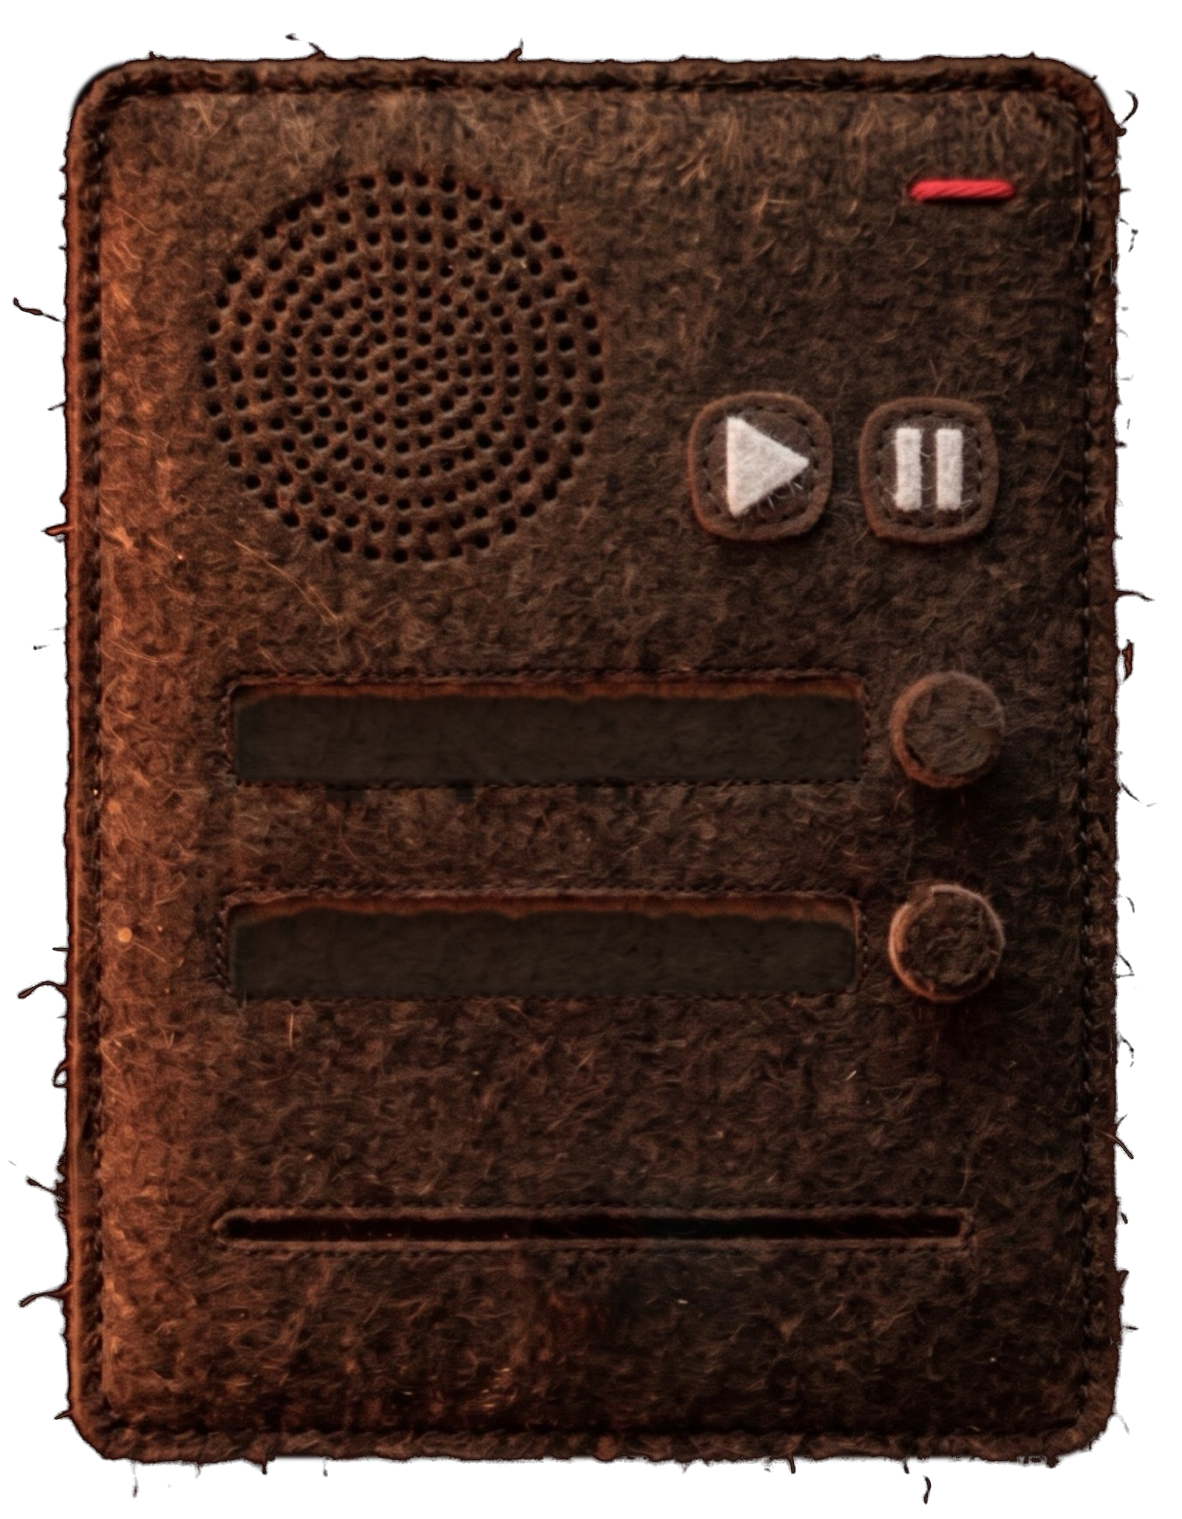
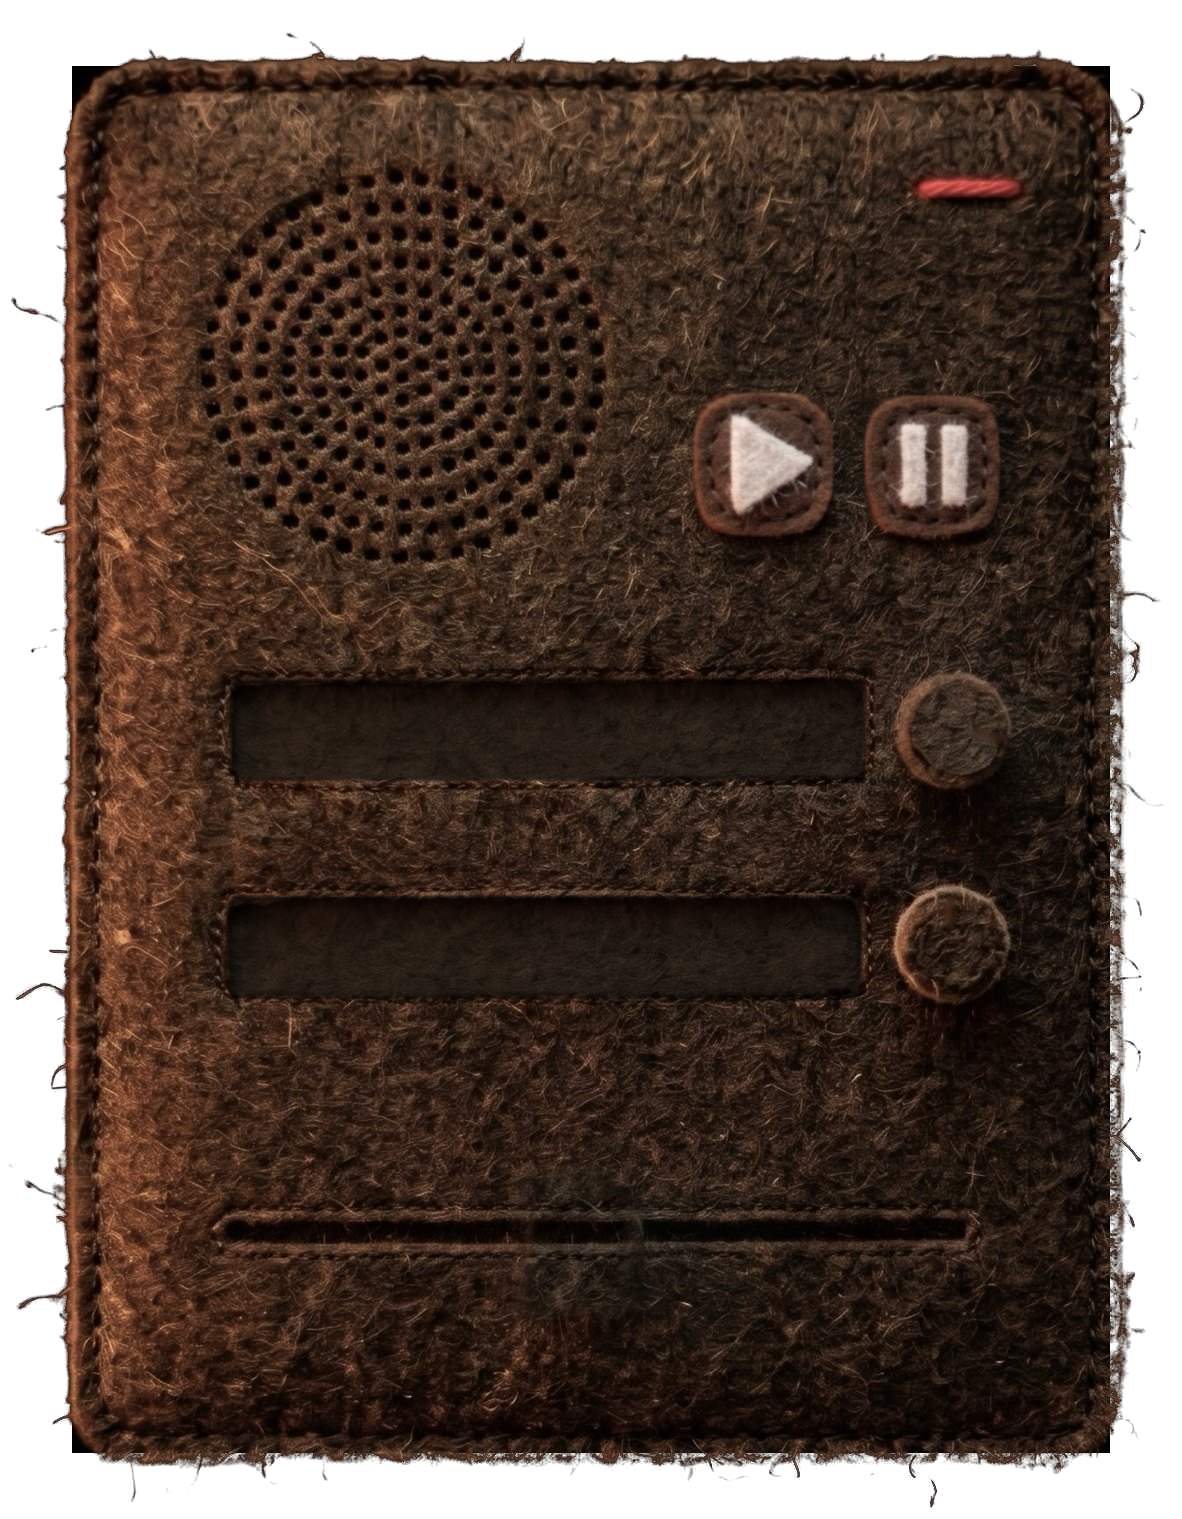
Night audio player: back to the original night felt, with the new brown buttons and green Play cut in
Claude-Session: https://claude.ai/code/session_01NDsvQ4w6b4M39K7iEhCswz

Changed region(s): [[0.0305, 0.0309, 0.9746, 0.9901], [0.3959, 0.7117, 0.4264, 0.7426], [0.2132, 0.526, 0.2437, 0.5569]]

diff --git a/src/components/TapePlayer.js b/src/components/TapePlayer.js
@@ -19,7 +19,7 @@ const BODY = require('../../assets/audio-player2.jpg'); // the whole player, in 
 const PLAY_ON = require('../../assets/audio-play-on.png'); // the green Play button, laid over while playing
 const PLAY_ON_NIGHT = require('../../assets/audio-play-on-night.png'); // the green button from Jörg's night photo, cut out
 const THUMB = require('../../assets/audio-thumb2.png'); // the slider's felt knob (with its shadow drawn in)
-// at night (the nightlight is on): Jörg's dark brown felt version, with its loose threads around the edges (the black around them see-through),
+// at night (the nightlight is on): Jörg's dark brown felt version (with the brown felt Play and Pause cut from his newer night photo), with its loose threads around the edges (the black around them see-through),
 // and its own slider knob. The day player stays as it is.
 const BODY_NIGHT = require('../../assets/audio-player-night.png');
 const THUMB_NIGHT = require('../../assets/audio-thumb-night.png');
@@ -27,7 +27,7 @@ const NIGHT_MX = 0.063, NIGHT_MY = 0.0428; // how far the night picture reaches 
 const IW = 1792, IH = 2400; // the picture's own units (Jörg's photo, in pixels)
 const R = 112; // its corners: the felt's own rounded corners (the photo's background there is filled with felt, then clipped)
 const PLAY = { x: 1052, y: 552, w: 260, h: 270 };
-const PLAY_NIGHT = { x: 1044, y: 544, w: 290, h: 302 }; // where the green button cut from Jörg's night photo sits on the brown felt
+const PLAY_NIGHT = { x: 1051, y: 540, w: 290, h: 302 }; // where the green button cut from Jörg's night photo sits on the brown felt
 // the size: about as wide as a phone allows, and never taller than the screen has room for
 const sizeFor = (winW, winH) => {
   const PW = Math.round(Math.min(340, winW - 48, (winH - 96) * IW / IH));
@@ -110,14 +110,14 @@ export default function TapePlayer({ onMenu }) {
         <Pressable onPress={withTap(playAmbient)} style={at(PLAY.x, PLAY.y, PLAY.w, PLAY.h)} accessibilityRole="button" accessibilityLabel={t('Play')} />
         <Pressable onPress={withTap(pauseAmbient)} style={at(1360, 562, 230, 250)} accessibilityRole="button" accessibilityLabel={t('Pause')} />
         {/* (the night felt's windows sit a little lower; its names start a little further in) */}
-        {windowText(s.night ? [297, 1096, 1056, 149] : [268, 1067, 1082, 150], name(s.sound) || t('Select sound'), !s.sound)}
-        {windowText(s.night ? [293, 1465, 1048, 142] : [268, 1437, 1076, 150], name(s.music) || t('Select music'), !s.music)}
+        {windowText(s.night ? [282, 1070, 1082, 172] : [268, 1067, 1082, 150], name(s.sound) || t('Select sound'), !s.sound)}
+        {windowText(s.night ? [276, 1441, 1082, 174] : [268, 1437, 1076, 150], name(s.music) || t('Select music'), !s.music)}
         {/* the knobs stay put; tap one to click to the next choice */}
         <Pressable onPress={withTap(() => stepAmbient('sound'), thunk)} style={at(1386, 1010, 250, 260)} accessibilityRole="button" accessibilityLabel={name(s.sound) || t('Select sound')} />
         <Pressable onPress={withTap(() => stepAmbient('music'), thunk)} style={at(1386, 1380, 250, 260)} accessibilityRole="button" accessibilityLabel={name(s.music) || t('Select music')} />
         {/* the knobs' lines turn with each click (at night: on the brown felt's knobs, in cream) */}
-        {s.night ? mark(1500, 1151, k1) : mark(1506, 1127, k1)}
-        {s.night ? mark(1500, 1510, k2) : mark(1506, 1500, k2)}
+        {s.night ? mark(1512, 1145, k1) : mark(1506, 1127, k1)}
+        {s.night ? mark(1512, 1507, k2) : mark(1506, 1500, k2)}
         {/* the volume: the felt knob slides left (quieter) and right (louder) in the stitched slot */}
         <View {...volSlide.panHandlers} style={at(SLOT.x, SLOT.y, SLOT.w, SLOT.h)} accessibilityRole="adjustable" accessibilityLabel={t('Volume')}
           accessibilityValue={{ min: 0, max: 100, now: Math.round(vol * 100) }}
